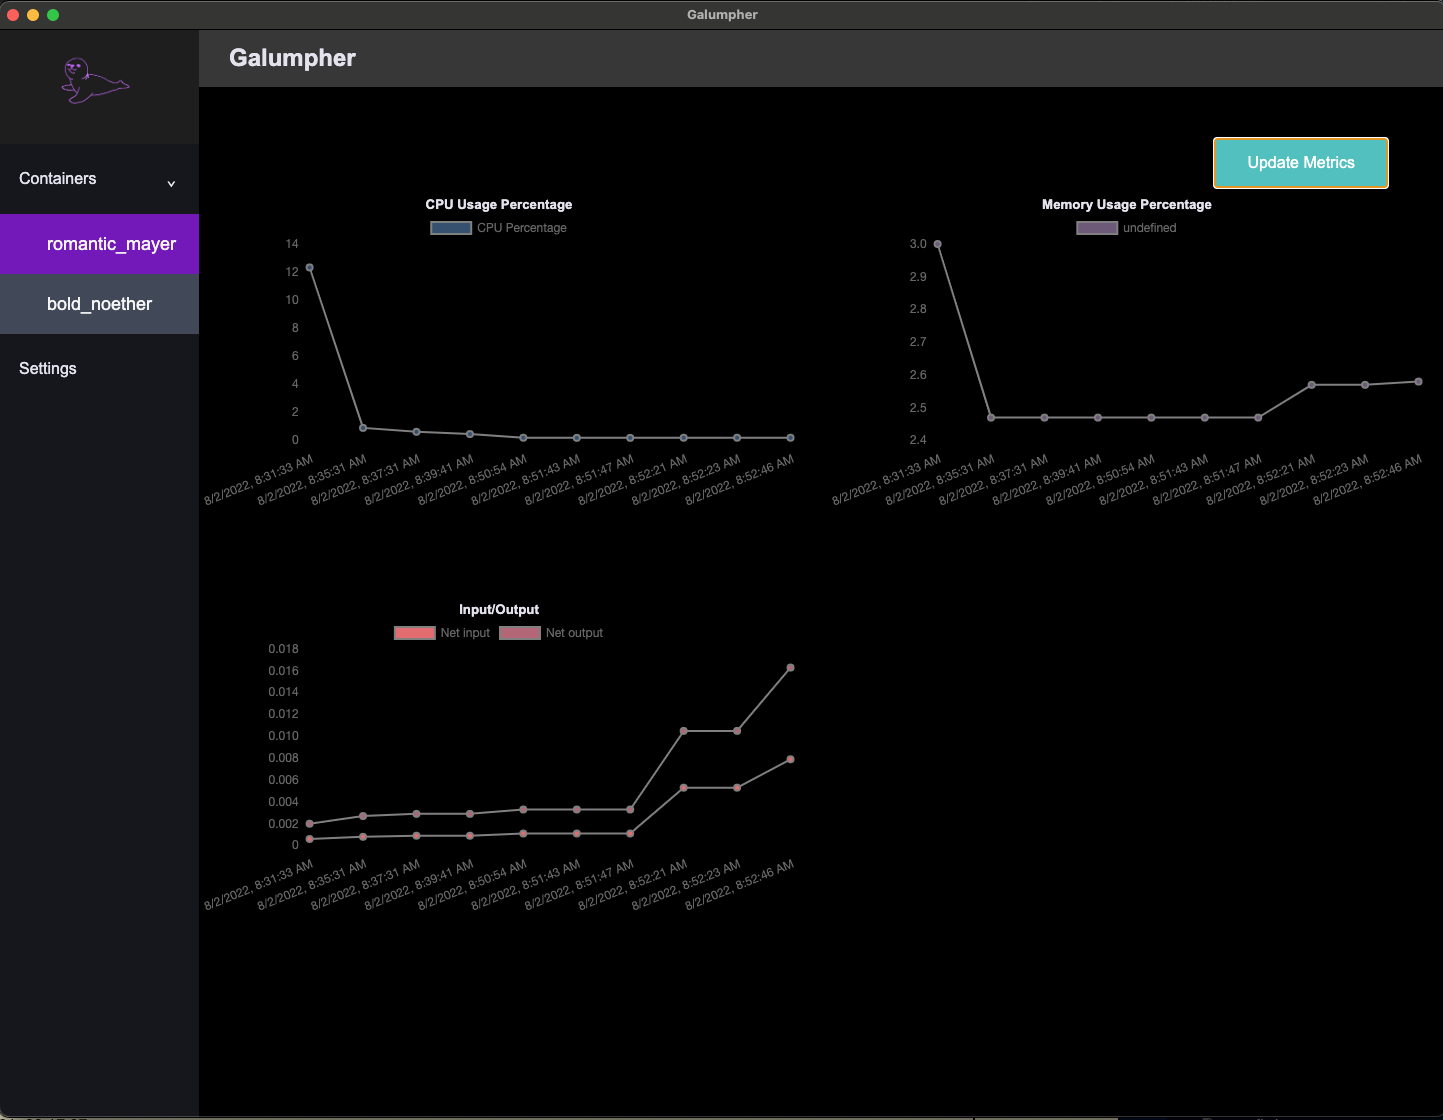
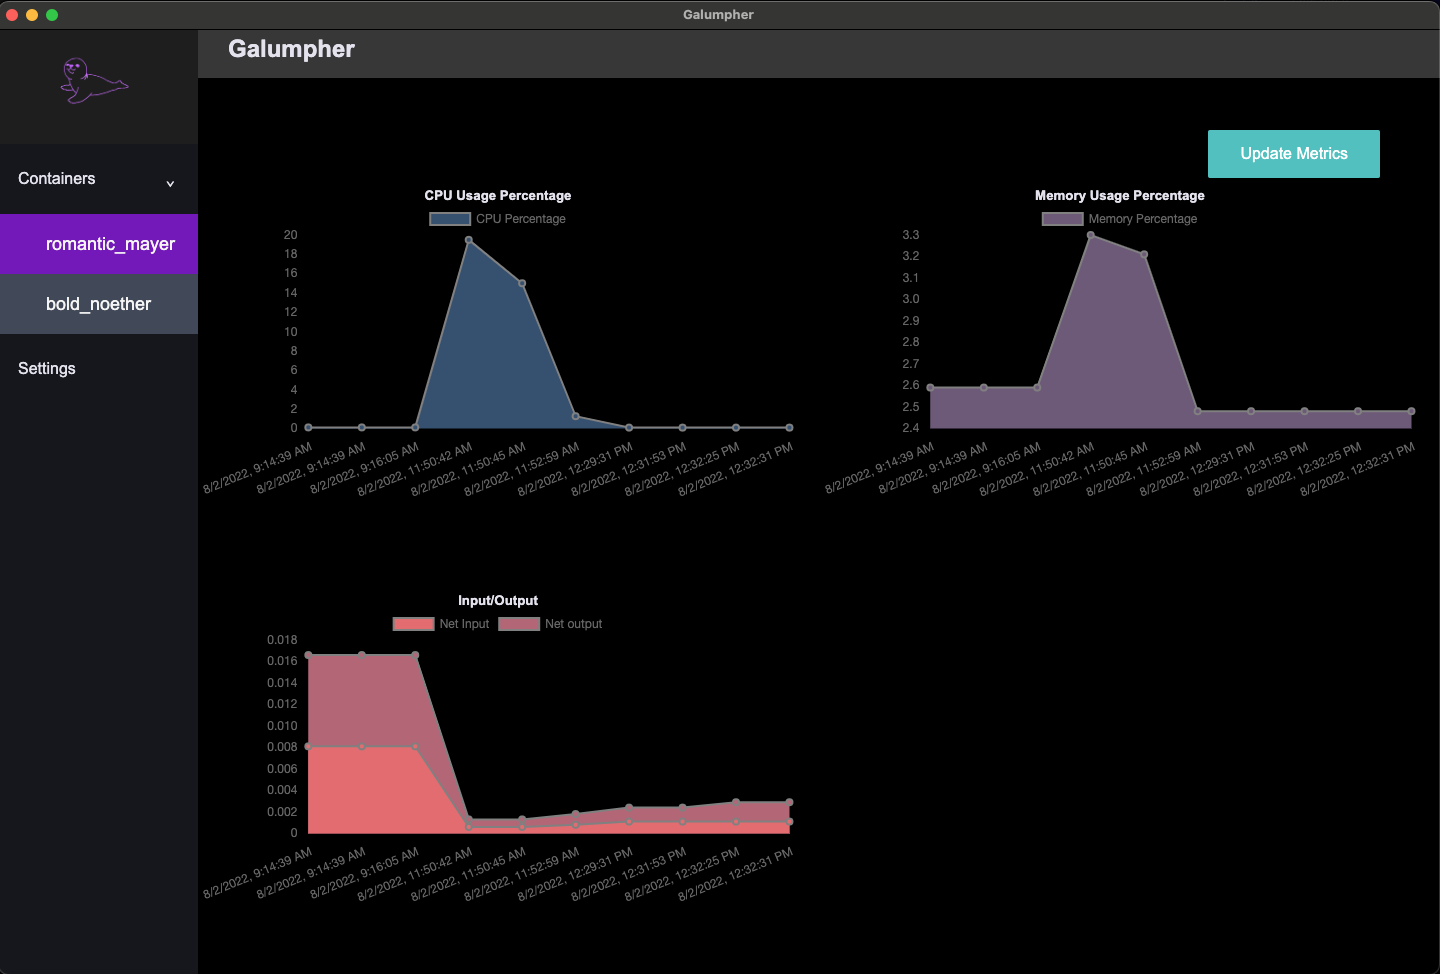
changed readme image

diff --git a/src/client/components/dashboard/CPU.tsx b/src/client/components/dashboard/CPU.tsx
@@ -9,6 +9,7 @@ import {
   Title,
   Tooltip,
   Legend,
+  Filler
 } from 'chart.js'
 import type { ChartData } from 'chart.js';
 interface LineProps {
@@ -21,7 +22,8 @@ ChartJS.register(
   LineElement,
   Title,
   Tooltip,
-  Legend
+  Legend,
+  Filler
 ); 
 type chartData = {
   labels?: string[];

diff --git a/README.md b/README.md
@@ -8,7 +8,7 @@ Galumpher is an open-source developer tool to help monitor the health and status
 that are currently running on your local machine. Galumpher allows users to view important metrics at a quick glance
 and update them at the click of a button. 
 
-![metricsContainer](./src/client/assets/galumpher-readMe.png)
+![metricsContainer](./src/client/assets//galumpher-readme.png)
 
 ## Features
 
